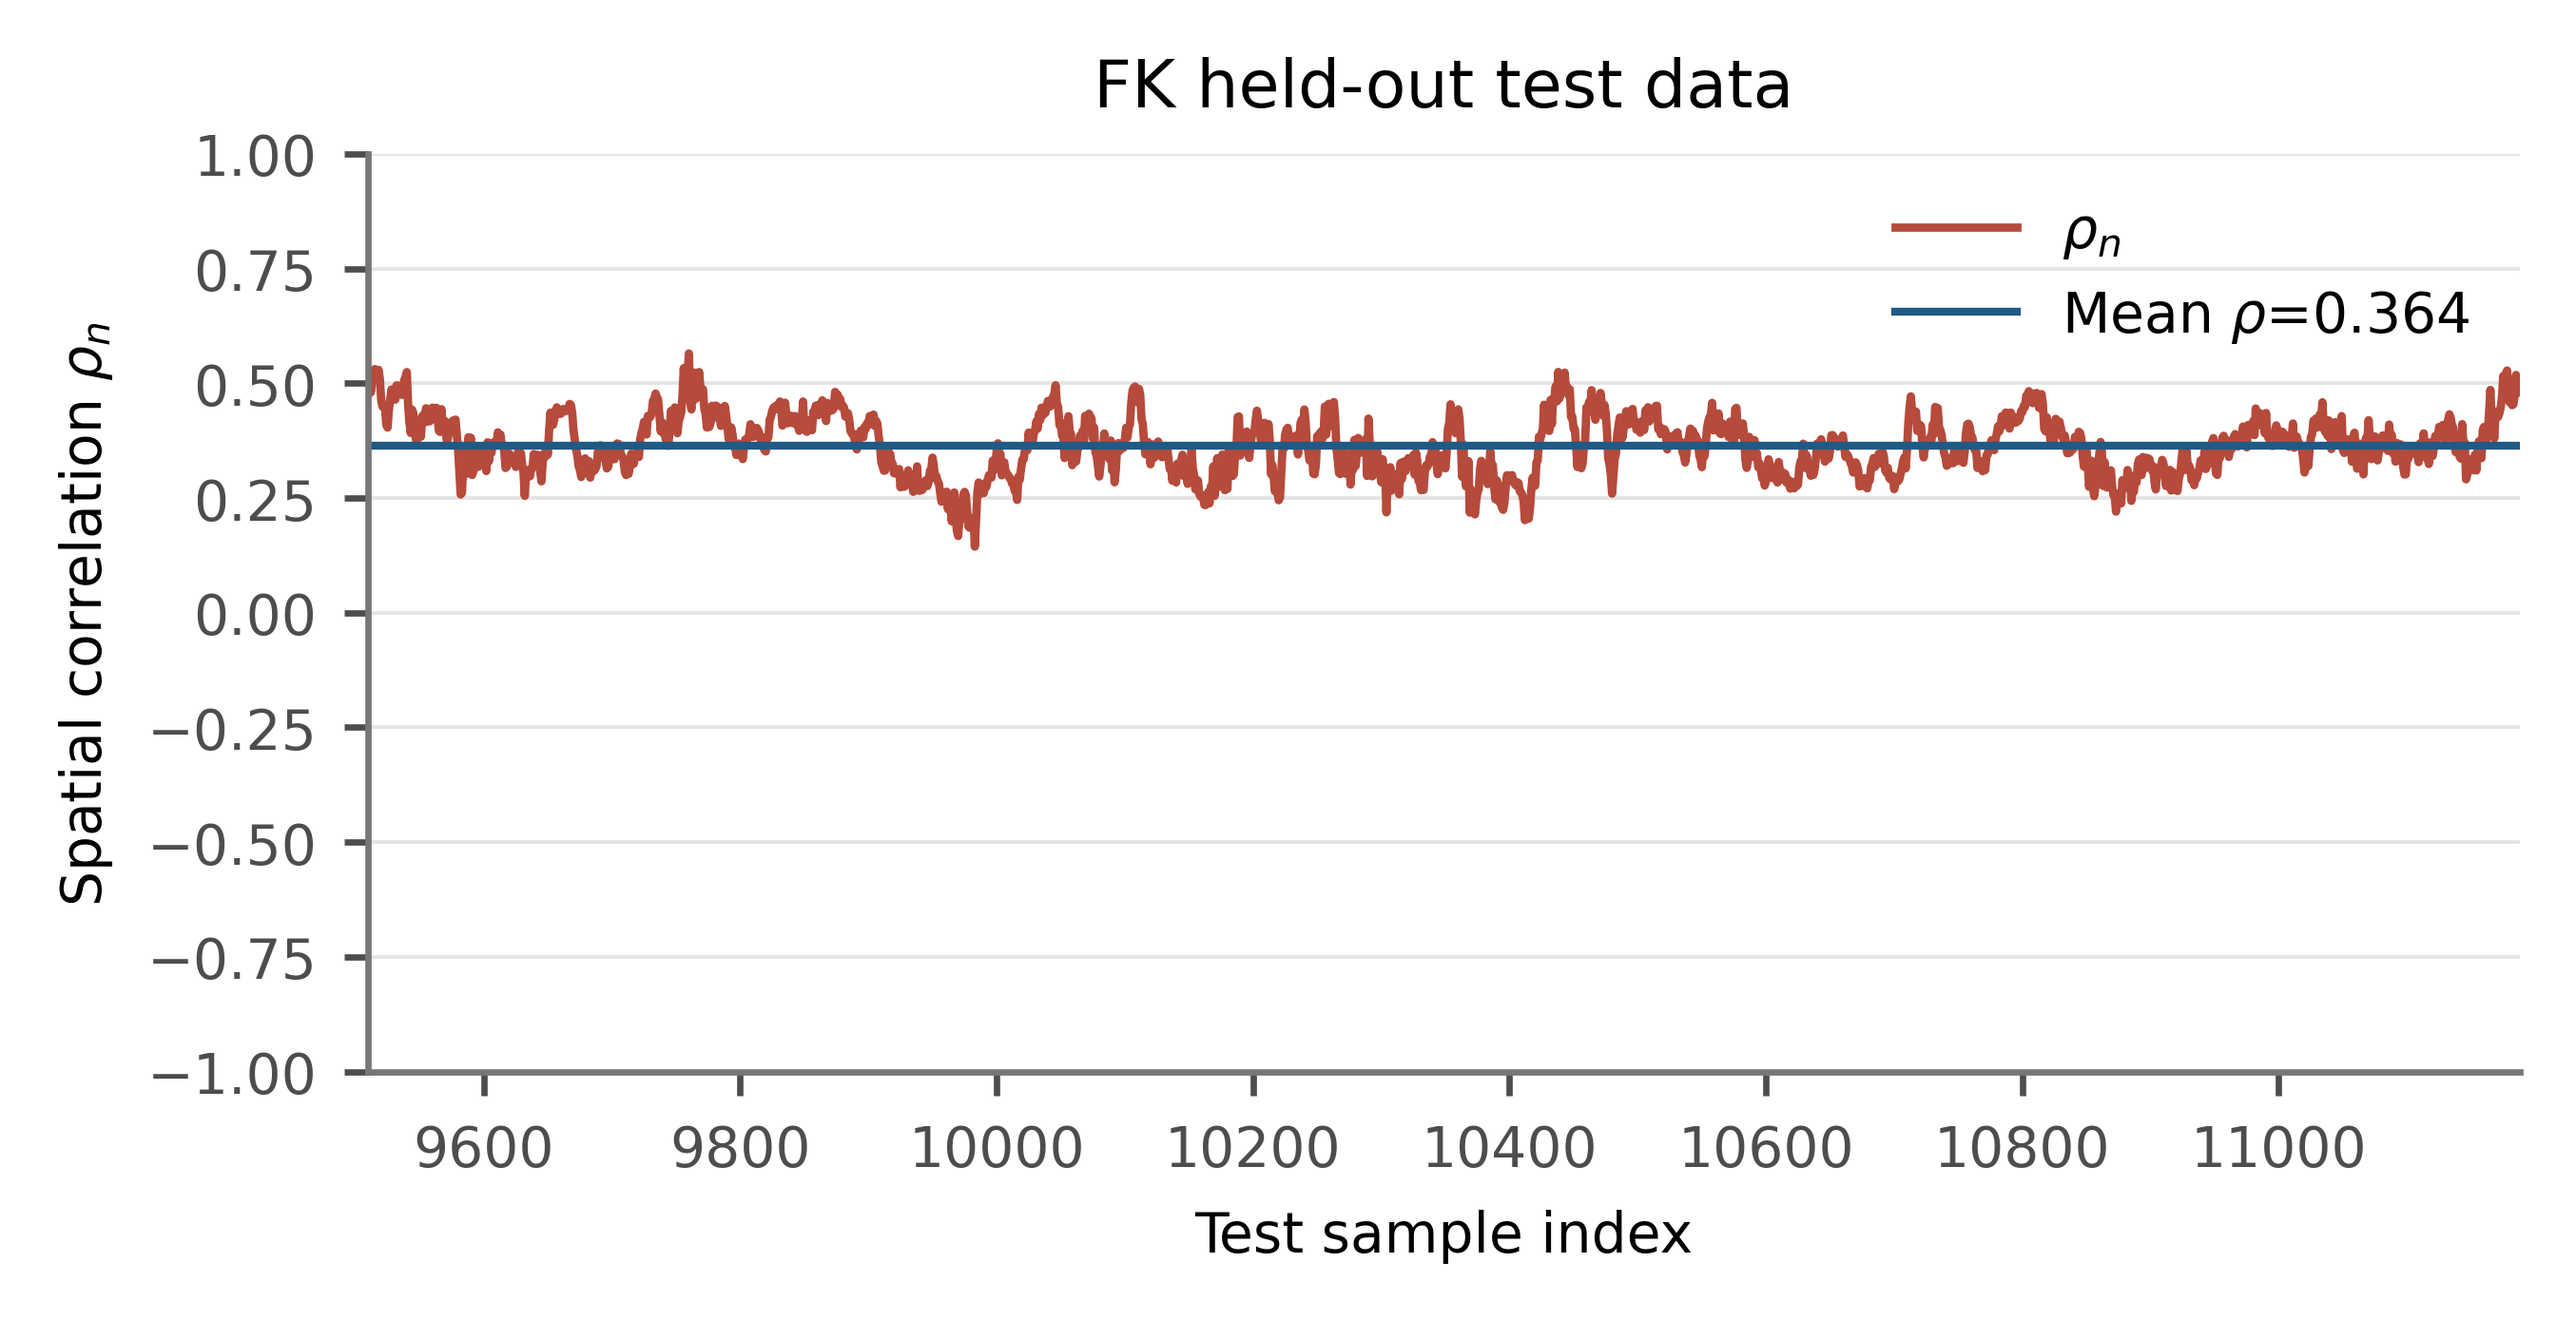
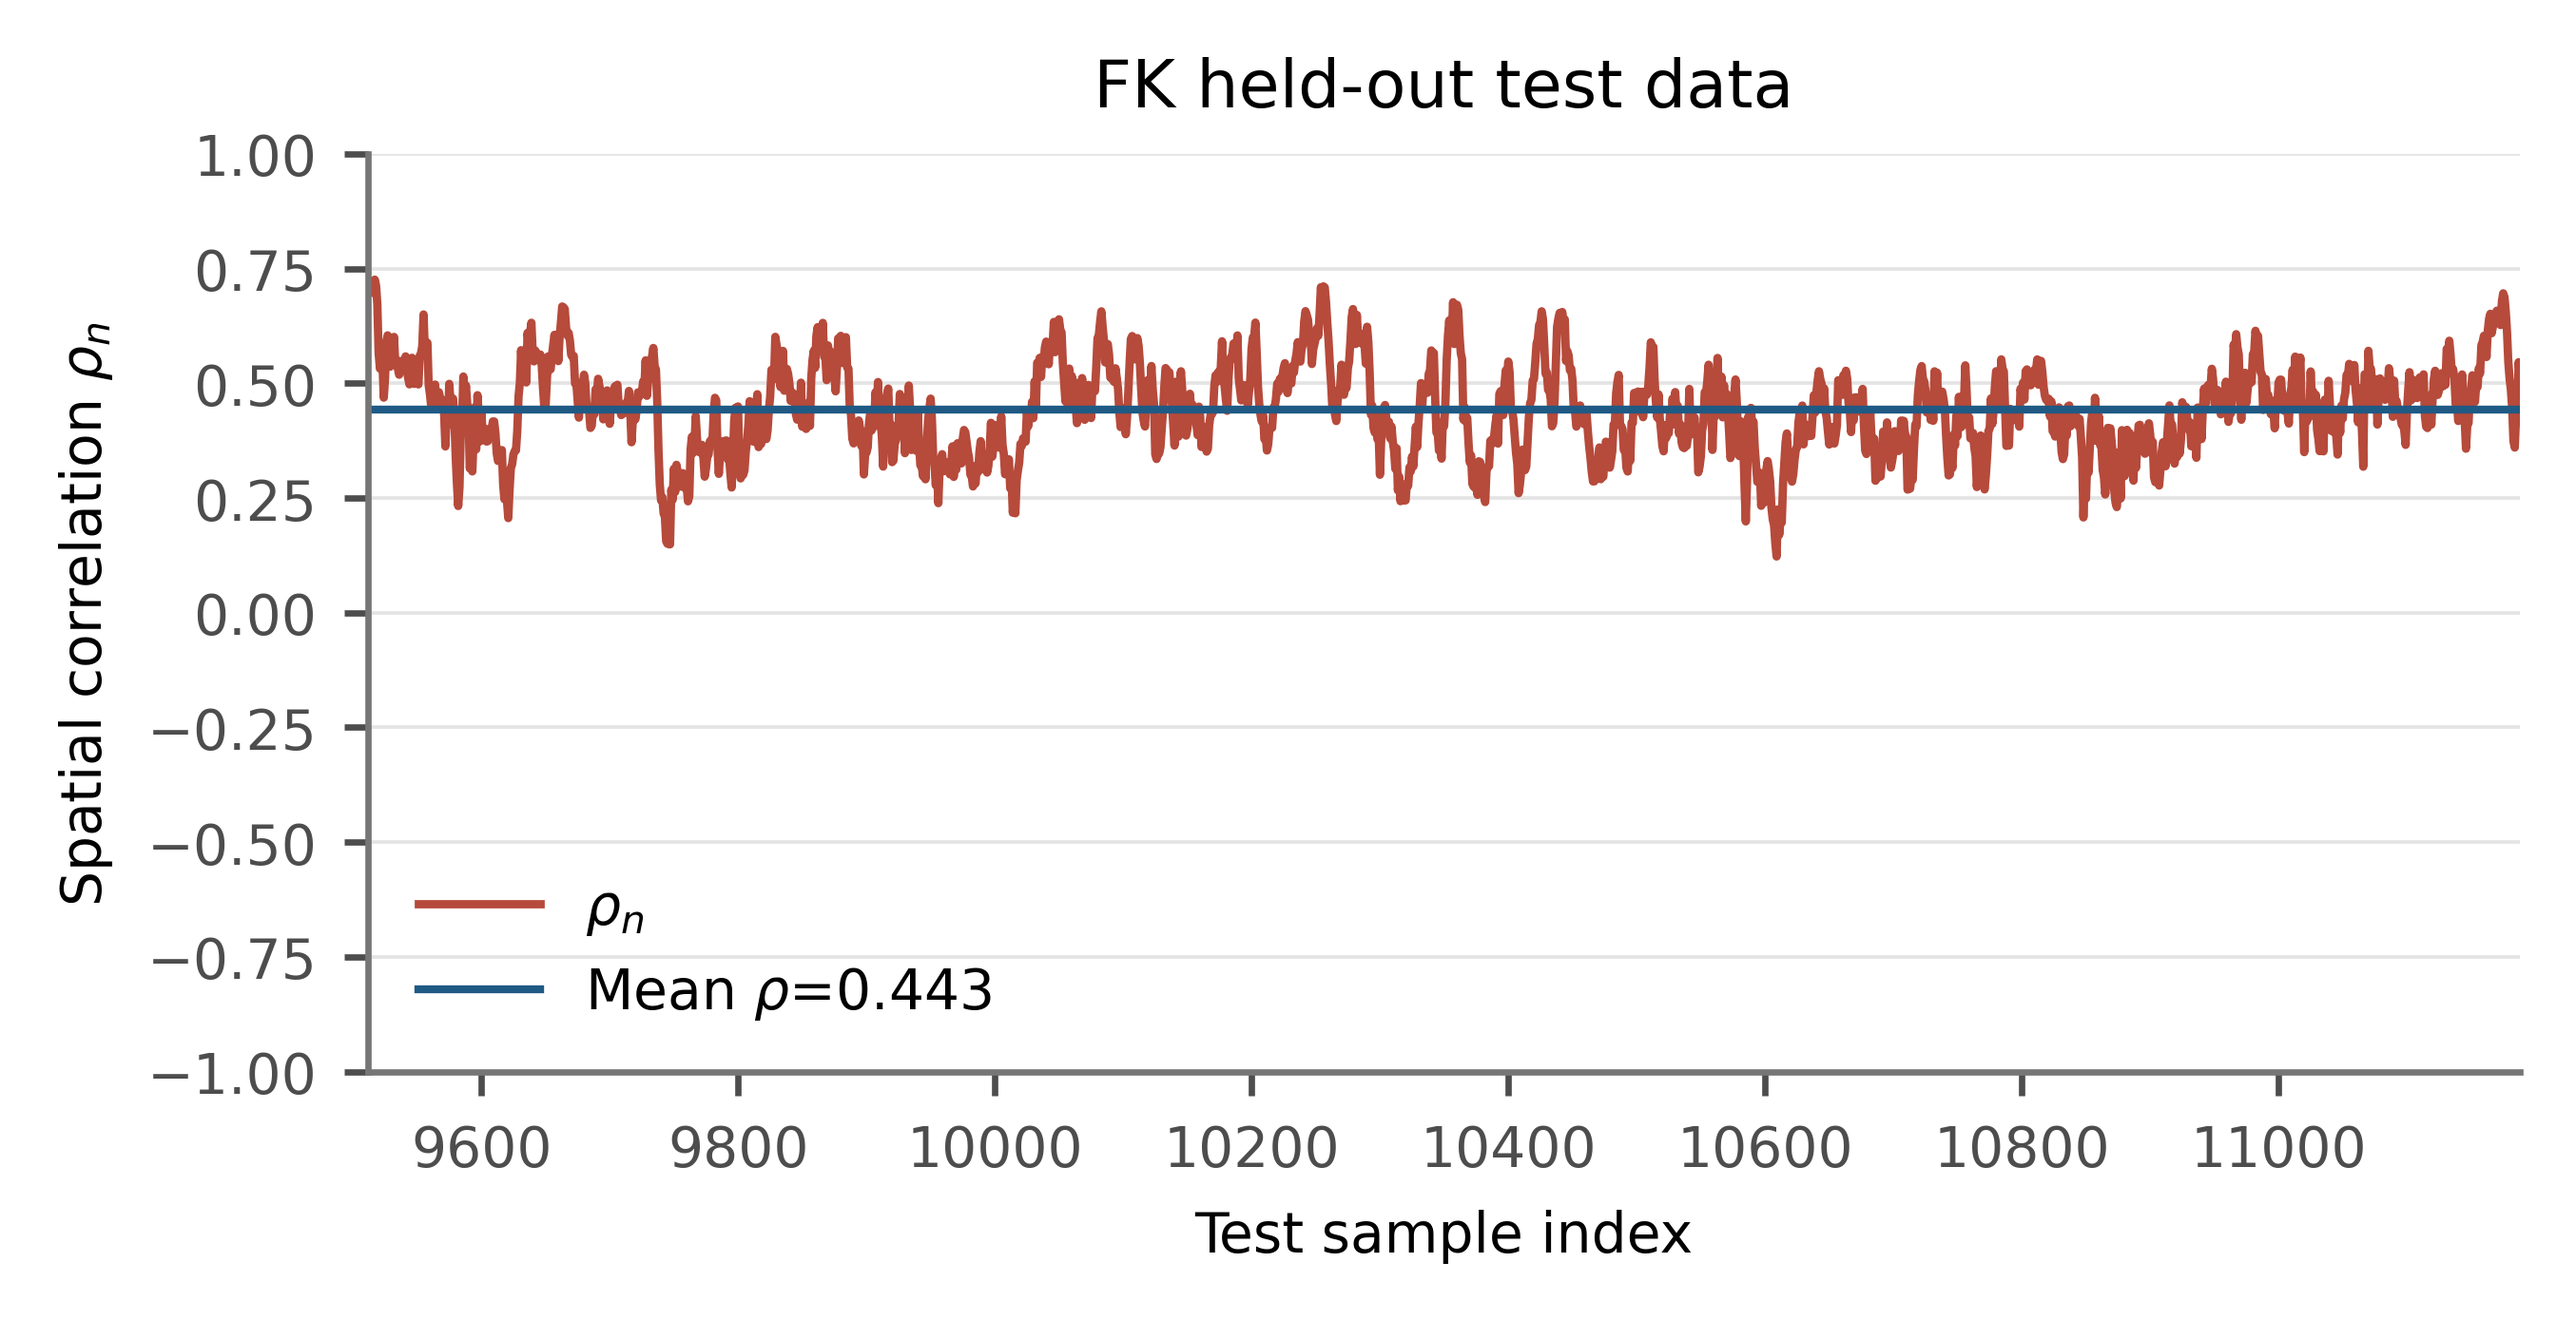
spatial correlation calculation

diff --git a/_src/analysis/spatial_corr/plot_fluxnet_fk_spatial_corr.py b/_src/analysis/spatial_corr/plot_fluxnet_fk_spatial_corr.py
@@ -43,6 +43,7 @@ def parse_args() -> argparse.Namespace:
         type=Path,
         default=HERE / "fluxnet_fk_spatial_corr_summary.txt",
     )
+    parser.add_argument("--fk-display-label", default="FK", help="Display label for the FK/MLE baseline in plots and summaries.")
     return parser.parse_args()
 
 
@@ -127,13 +128,16 @@ def write_summary(
     sample: np.ndarray,
     flux_summary: dict[str, float | int],
     fk_summary: dict[str, float | int],
+    fk_label: str,
 ) -> None:
     path.parent.mkdir(parents=True, exist_ok=True)
     with path.open("w") as handle:
-        handle.write("SubmesoFluxNet versus FK spatial correlation\n")
+        handle.write(f"SubmesoFluxNet versus {fk_label} spatial correlation\n")
+        handle.write(f"comparison_scope: sample_index intersection of {fk_label} and SubmesoFluxNet spatial-correlation CSVs\n")
+        handle.write(f"note: SubmesoFluxNet is restricted to the same {fk_label}-available subset before statistics are computed\n")
         handle.write(f"sample_index_range: {int(sample.min())}-{int(sample.max())}\n")
         handle.write(f"n_common_snapshots: {sample.size}\n")
-        for label, vals in (("SubmesoFluxNet", flux_summary), ("FK", fk_summary)):
+        for label, vals in (("SubmesoFluxNet", flux_summary), (fk_label, fk_summary)):
             handle.write(f"\n{label}\n")
             for key, value in vals.items():
                 if isinstance(value, int):
@@ -144,11 +148,7 @@ def write_summary(
 
 def save_figure(fig: plt.Figure, output_prefix: Path) -> None:
     output_prefix.parent.mkdir(parents=True, exist_ok=True)
-    for ext in (".svg", ".pdf", ".png", ".tiff"):
-        kwargs = {"bbox_inches": "tight"}
-        if ext in {".png", ".tiff"}:
-            kwargs["dpi"] = 600
-        fig.savefig(Path(f"{output_prefix}{ext}"), **kwargs)
+    fig.savefig(Path(f"{output_prefix}.png"), dpi=600, bbox_inches="tight")
 
 
 def draw_figure(
@@ -158,27 +158,29 @@ def draw_figure(
     flux_summary: dict[str, float | int],
     fk_summary: dict[str, float | int],
     output_prefix: Path,
+    fk_label: str,
 ) -> None:
     apply_style()
     fig, ax = plt.subplots(figsize=(4.85, 2.55), constrained_layout=True)
+    sample_number = np.arange(sample.size, dtype=np.int64)
 
     ax.plot(
-        sample,
+        sample_number,
         flux_corr,
         color=PALETTE["fluxnet"],
         linewidth=0.95,
         label=fr"SubmesoFluxNet, mean $\rho$={float(flux_summary['mean']):.3f}",
     )
     ax.plot(
-        sample,
+        sample_number,
         fk_corr,
         color=PALETTE["fk"],
         linewidth=0.95,
-        label=fr"FK, mean $\rho$={float(fk_summary['mean']):.3f}",
+        label=fr"{fk_label}, mean $\rho$={float(fk_summary['mean']):.3f}",
     )
-    ax.set_xlim(int(sample.min()), int(sample.max()))
+    ax.set_xlim(0, int(sample_number.max()))
     ax.set_ylim(0.0, 1.0)
-    ax.set_xlabel("Held-out test data index")
+    ax.set_xlabel("Held-out test sample number")
     ax.set_ylabel(r"Spatial correlation $\rho_n$")
     ax.set_title("Spatial pattern correlation", fontsize=7.5, pad=4)
     ax.grid(axis="y", color=PALETTE["neutral_light"], linewidth=0.45, alpha=0.55)
@@ -205,14 +207,13 @@ def main() -> None:
     flux_summary = summary(flux_aligned)
     fk_summary = summary(fk_aligned)
 
-    draw_figure(sample, flux_aligned, fk_aligned, flux_summary, fk_summary, args.output_prefix)
-    write_summary(args.summary_output, sample, flux_summary, fk_summary)
+    draw_figure(sample, flux_aligned, fk_aligned, flux_summary, fk_summary, args.output_prefix, args.fk_display_label)
+    write_summary(args.summary_output, sample, flux_summary, fk_summary, args.fk_display_label)
 
-    for ext in (".svg", ".pdf", ".png", ".tiff"):
-        print(f"Saved {args.output_prefix}{ext}", flush=True)
+    print(f"Saved {args.output_prefix}.png", flush=True)
     print(f"Saved {args.summary_output}", flush=True)
     print(f"SubmesoFluxNet mean spatial corr: {float(flux_summary['mean']):.6f}", flush=True)
-    print(f"FK mean spatial corr: {float(fk_summary['mean']):.6f}", flush=True)
+    print(f"{args.fk_display_label} mean spatial corr: {float(fk_summary['mean']):.6f}", flush=True)
 
 
 if __name__ == "__main__":

diff --git a/_src/analysis/spatial_corr/calc_no_shuffle_spatial_corr.py b/_src/analysis/spatial_corr/calc_no_shuffle_spatial_corr.py
@@ -30,25 +30,25 @@ def parse_args() -> argparse.Namespace:
     parser.add_argument(
         "--predictions",
         type=Path,
-        default=PROJECT_DIR / "outputs_no_shuffle/test_predictions_denorm.npz",
+        default=PROJECT_DIR / "outputs_train_on_small_domain/upper_40x20_encoder_convlstm/test_predictions_denorm.npz",
         help="NPZ produced by evaluate.py containing prediction, target, and sample_index.",
     )
     parser.add_argument(
         "--csv-output",
         type=Path,
-        default=PROJECT_DIR / "analysis/spatial_corr/no_shuffle_spatial_corr.csv",
+        default=PROJECT_DIR / "analysis/spatial_corr/no_shuffle_overfitting_test_spatial_corr.csv",
         help="Output CSV for per-snapshot spatial correlations.",
     )
     parser.add_argument(
         "--summary-output",
         type=Path,
-        default=PROJECT_DIR / "analysis/spatial_corr/no_shuffle_spatial_corr_summary.txt",
+        default=PROJECT_DIR / "analysis/spatial_corr/no_shuffle_overfitting_test_spatial_corr_summary.txt",
         help="Output text file with mean and distribution summary.",
     )
     parser.add_argument(
         "--plot-output-prefix",
         type=Path,
-        default=PROJECT_DIR / "analysis/spatial_corr/no_shuffle_spatial_corr",
+        default=PROJECT_DIR / "analysis/spatial_corr/no_shuffle_overfitting_test_spatial_corr",
         help="Output plot prefix without extension.",
     )
     return parser.parse_args()
@@ -184,8 +184,6 @@ def plot_series(path_prefix: Path, sample_index: np.ndarray, rho: np.ndarray, me
     ax.legend(loc="best", handlelength=2.2)
 
     path_prefix.parent.mkdir(parents=True, exist_ok=True)
-    fig.savefig(path_prefix.with_suffix(".svg"), bbox_inches="tight")
-    fig.savefig(path_prefix.with_suffix(".pdf"), bbox_inches="tight")
     fig.savefig(path_prefix.with_suffix(".png"), dpi=600, bbox_inches="tight")
     plt.close(fig)
 
@@ -202,8 +200,6 @@ def main() -> None:
 
     print(f"Saved {args.csv_output}", flush=True)
     print(f"Saved {args.summary_output}", flush=True)
-    print(f"Saved {args.plot_output_prefix.with_suffix('.svg')}", flush=True)
-    print(f"Saved {args.plot_output_prefix.with_suffix('.pdf')}", flush=True)
     print(f"Saved {args.plot_output_prefix.with_suffix('.png')}", flush=True)
     print(f"mean spatial correlation: {summary['mean']:.6f}", flush=True)
 

diff --git a/_src/analysis/spatial_corr/calc_fk_spatial_corr.py b/_src/analysis/spatial_corr/calc_fk_spatial_corr.py
@@ -29,13 +29,13 @@ def parse_args() -> argparse.Namespace:
     parser.add_argument(
         "--fk-predictions",
         type=Path,
-        default=FK_MLE_DIR / "fk_test_Ce2p13062237_prediction_physical.npz",
+        default=FK_MLE_DIR / "upper_40x20/fk_test_Ce2p13062237_prediction_physical.npz",
         help="FK NPZ containing prediction and sample_index arrays.",
     )
     parser.add_argument(
         "--truth-predictions",
         type=Path,
-        default=PROJECT_DIR / "outputs_no_shuffle_overfitting_test/test_predictions_denorm.npz",
+        default=PROJECT_DIR / "outputs_train_on_small_domain/upper_40x20_encoder_convlstm/test_predictions_denorm.npz",
         help="SubmesoFluxNet test NPZ containing the physical-unit target array.",
     )
     parser.add_argument(
@@ -193,8 +193,6 @@ def plot_series(path_prefix: Path, sample_index: np.ndarray, rho: np.ndarray, me
     ax.legend(loc="best", handlelength=2.2)
 
     path_prefix.parent.mkdir(parents=True, exist_ok=True)
-    fig.savefig(path_prefix.with_suffix(".svg"), bbox_inches="tight")
-    fig.savefig(path_prefix.with_suffix(".pdf"), bbox_inches="tight")
     fig.savefig(path_prefix.with_suffix(".png"), dpi=600, bbox_inches="tight")
     plt.close(fig)
 
@@ -211,8 +209,6 @@ def main() -> None:
 
     print(f"Saved {args.csv_output}", flush=True)
     print(f"Saved {args.summary_output}", flush=True)
-    print(f"Saved {args.plot_output_prefix.with_suffix('.svg')}", flush=True)
-    print(f"Saved {args.plot_output_prefix.with_suffix('.pdf')}", flush=True)
     print(f"Saved {args.plot_output_prefix.with_suffix('.png')}", flush=True)
     print(f"mean spatial correlation: {summary['mean']:.6f}", flush=True)
 

diff --git a/_src/analysis/spatial_corr/calc_shuffle_all_fk_spatial_corr.py b/_src/analysis/spatial_corr/calc_shuffle_all_fk_spatial_corr.py
@@ -1,0 +1,31 @@
+#!/usr/bin/env python3
+from __future__ import annotations
+
+import sys
+from pathlib import Path
+
+from calc_fk_spatial_corr import main
+
+
+PROJECT_DIR = Path(__file__).resolve().parents[2]
+HERE = PROJECT_DIR / "analysis/spatial_corr"
+FK_DIR = PROJECT_DIR / "analysis/fk_mle/upper_40x20"
+
+
+def add_default_args() -> None:
+    defaults = {
+        "--fk-predictions": FK_DIR / "fk_shuffle_all_test_Ce2p13062237_prediction_physical.npz",
+        "--truth-predictions": PROJECT_DIR / "outputs_train_on_small_domain/upper_40x20_encoder_convlstm_shuffle_all/test_predictions_denorm.npz",
+        "--csv-output": HERE / "fk_shuffle_all_Ce2p13062237_spatial_corr.csv",
+        "--summary-output": HERE / "fk_shuffle_all_Ce2p13062237_spatial_corr_summary.txt",
+        "--plot-output-prefix": HERE / "fk_shuffle_all_Ce2p13062237_spatial_corr",
+    }
+    present = set(arg for arg in sys.argv[1:] if arg.startswith("--"))
+    for key, value in defaults.items():
+        if key not in present:
+            sys.argv.extend([key, str(value)])
+
+
+if __name__ == "__main__":
+    add_default_args()
+    main()

diff --git a/_src/analysis/spatial_corr/calc_shuffle_all_spatial_corr.py b/_src/analysis/spatial_corr/calc_shuffle_all_spatial_corr.py
@@ -1,0 +1,29 @@
+#!/usr/bin/env python3
+from __future__ import annotations
+
+import sys
+from pathlib import Path
+
+from calc_no_shuffle_spatial_corr import main
+
+
+PROJECT_DIR = Path(__file__).resolve().parents[2]
+HERE = PROJECT_DIR / "analysis/spatial_corr"
+
+
+def add_default_args() -> None:
+    defaults = {
+        "--predictions": PROJECT_DIR / "outputs_train_on_small_domain/upper_40x20_encoder_convlstm_shuffle_all/test_predictions_denorm.npz",
+        "--csv-output": HERE / "shuffle_all_encoder_convlstm_spatial_corr.csv",
+        "--summary-output": HERE / "shuffle_all_encoder_convlstm_spatial_corr_summary.txt",
+        "--plot-output-prefix": HERE / "shuffle_all_encoder_convlstm_spatial_corr",
+    }
+    present = set(arg for arg in sys.argv[1:] if arg.startswith("--"))
+    for key, value in defaults.items():
+        if key not in present:
+            sys.argv.extend([key, str(value)])
+
+
+if __name__ == "__main__":
+    add_default_args()
+    main()

diff --git a/_src/analysis/spatial_corr/plot_shuffle_all_fluxnet_fk_spatial_corr.py b/_src/analysis/spatial_corr/plot_shuffle_all_fluxnet_fk_spatial_corr.py
@@ -1,0 +1,30 @@
+#!/usr/bin/env python3
+from __future__ import annotations
+
+import sys
+from pathlib import Path
+
+from plot_fluxnet_fk_spatial_corr import main
+
+
+PROJECT_DIR = Path(__file__).resolve().parents[2]
+HERE = PROJECT_DIR / "analysis/spatial_corr"
+
+
+def add_default_args() -> None:
+    defaults = {
+        "--fluxnet-csv": HERE / "shuffle_all_encoder_convlstm_spatial_corr.csv",
+        "--fk-csv": HERE / "fk_shuffle_all_Ce2p13062237_spatial_corr.csv",
+        "--output-prefix": HERE / "shuffle_all_fluxnet_fk_spatial_corr",
+        "--summary-output": HERE / "shuffle_all_fluxnet_fk_spatial_corr_summary.txt",
+        "--fk-display-label": "MLE",
+    }
+    present = set(arg for arg in sys.argv[1:] if arg.startswith("--"))
+    for key, value in defaults.items():
+        if key not in present:
+            sys.argv.extend([key, str(value)])
+
+
+if __name__ == "__main__":
+    add_default_args()
+    main()
